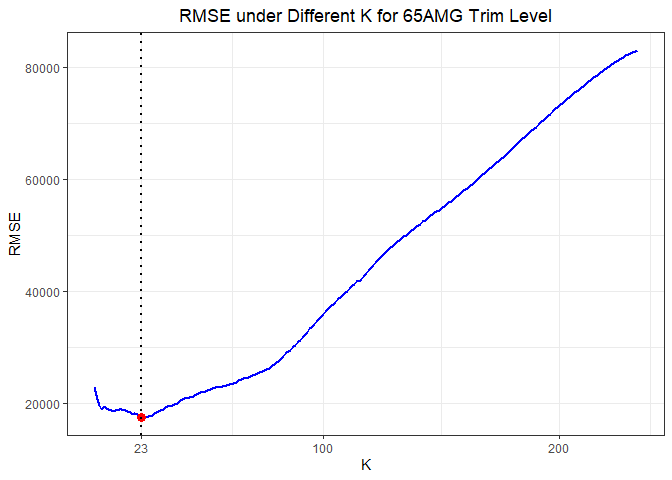
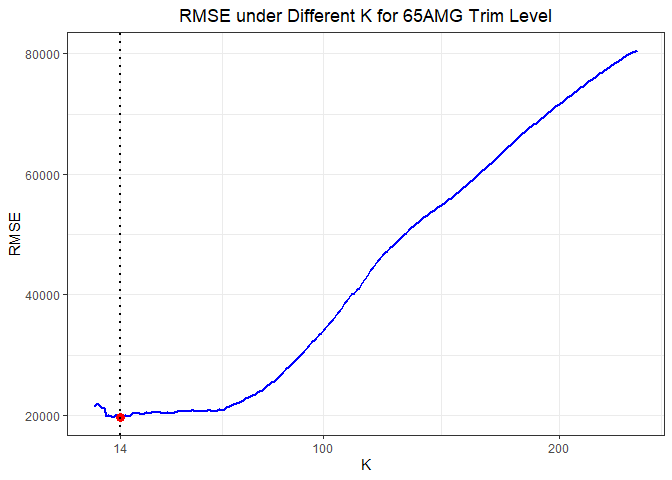
change2

diff --git a/Exercise-1.md b/Exercise-1.md
@@ -6,6 +6,16 @@ By Eliza Malinova, Zhenghao Li, and Raushan Baizakova
 
 ## 1.1 How Does the Airport Traffic Looks Like
 
+This set of plots looks at the ABIA airport traffic over the course of
+the year, days of week and time of the days. As expected, the airport
+seems to be the busiest in June and surprisingly it has the least amount
+of flights in November if we consider the Thanksgiving holidays. As
+expected, the airport was busy in weekdays and had about 25% less
+flights on Saturday that on weekdays. If we look at the time of day, the
+airport has accepted the largest amount of flights around 17 p.m. with
+almost very rare flights after midnight, whereas the flights from Austin
+flew mostly around 19 p.m. and 13 p.m..
+
 <img src="Exercise-1_files/figure-gfm/unnamed-chunk-1-1.png" style="display: block; margin: auto;" />
 
 <img src="Exercise-1_files/figure-gfm/unnamed-chunk-2-1.png" style="display: block; margin: auto;" />
@@ -19,6 +29,11 @@ departure delay on average. The darker points indicate higher mean of
 departure delay. Here, the darkest point on the map is the DSM airport
 with an average departure delay of more than 125 minutes.
 
+This figure ranks the cities in the US for the flights that occured from
+Austin. Not surprisingly, the top three destinations for Austin
+originated flights were Texas cities which were twice as frequent than
+the majority of other cities.
+
 <img src="Exercise-1_files/figure-gfm/unnamed-chunk-4-1.png" style="display: block; margin: auto;" />
 
 To construct the map, we first grouped the ABIA data by destination and
@@ -30,6 +45,18 @@ departure by airports. The common column by which the joined has
 occurred is the airports name column: “Dest”.
 
 ## 1.3 Are Monthly Average Departure Delay and Arrival Delay Different
+
+In this figure, we look at the mean of arrival and departure delays
+separately, to see which months have the highest average delays. In
+general, it is expected that departing flights have higher average delay
+time than arrivals. If we look at the months, December is a leading
+month for both the highest average arrival and departure delays,
+although we have found before that relatively it didn’t have the highest
+number of flights, which might be explained with the weather conditions
+of this month. According to the data, the best time of the year to
+minimize both the departure and arrival delays is September, which has
+about 3 minutes average departure time and very surprisingly zero
+average arrival delay time.
 
 <img src="Exercise-1_files/figure-gfm/unnamed-chunk-5-1.png" style="display: block; margin: auto;" />
 
@@ -57,6 +84,13 @@ during the weekend.
 
 ## 1.5 Which Month Has the Most Extreme Delays
 
+If we look from the perspective of extreme departure delays which is
+higher than the 90th percentile - 33 minute of departure delays,
+December and July will lead in the length of the time of delays, whereas
+March and June have the highest 12 % probability of extreme delay. That
+could be explained by our previous finding that these monthes were
+leaders in the volume of air traffic in ABIA.
+
 <img src="Exercise-1_files/figure-gfm/unnamed-chunk-7-1.png" style="display: block; margin: auto;" />
 
 <img src="Exercise-1_files/figure-gfm/unnamed-chunk-8-1.png" style="display: block; margin: auto;" />
@@ -65,15 +99,37 @@ during the weekend.
 
 <img src="Exercise-1_files/figure-gfm/unnamed-chunk-9-1.png" style="display: block; margin: auto;" />
 
+## 1.7 When and how long to expect the delays?
+
+In the following two set of plots, we look at the specific time of the
+day and length of delay separately for arrivals and departures. The
+longest and the majority of the delays happened from 12:00 p.m. to 02:00
+a.m., with less frequent departure delays after midnight, which aligns
+with our previous finding that there very rare departing flights at this
+time of the day.
+
 \#\#1.7 When and How Long to Expect the Delays
+
 <img src="Exercise-1_files/figure-gfm/unnamed-chunk-10-1.png" style="display: block; margin: auto;" />
 
 <img src="Exercise-1_files/figure-gfm/unnamed-chunk-11-1.png" style="display: block; margin: auto;" />
 
-\#\#1.8 Which Delays Happened Most Frequently
+## 1.8. What Is The Frequency of the Difference Between Departure Time and Schedule Time
+
+If we focus our attention to the varios departure delay time lengths, we
+will find that according to dataset, more than half of the departing
+flights from Austin didn’t have delays, but on the contrary departed
+earlier.
+
 <img src="Exercise-1_files/figure-gfm/unnamed-chunk-12-1.png" style="display: block; margin: auto;" />
 
 \#\#1.9 Which Month Has Most Cancellations
+
+If we look at all the cancelled flights in ABIA, we will not be
+surprised to see March as a leading month in the number of cancelled
+flights followed by April. Particularly, about 2.5% of flights in March
+were cancelled.
+
 <img src="Exercise-1_files/figure-gfm/unnamed-chunk-13-1.png" style="display: block; margin: auto;" />
 
 # K-nearest neighbors
@@ -81,15 +137,46 @@ during the weekend.
 ## 2.1 Look at Price vs Mileage For Each Trim Level
 
 <img src="Exercise-1_files/figure-gfm/unnamed-chunk-14-1.png" style="display: block; margin: auto;" /><img src="Exercise-1_files/figure-gfm/unnamed-chunk-14-2.png" style="display: block; margin: auto;" />
+At first, let us have a glimpse of the 350 trim level data and 63AMG
+trim level data. The figure 1 is the scatter plot of price and mileage
+of 350 trim level cars. In general, the data shows a negative
+relationship between price and mileage. However, those points are
+separated into two parts: the part in the northwestern area and the part
+at the bottom spreading to the right side. It implies that a line
+regression may have misspecification for our data. The figure 2 is for
+the 65AMG trim level cars. It also shows a negative relationship between
+mileage and price.
 
-## 2.1 The Optimal K Vlaue for 350 Trim Level
+## 2.2 The Optimal K Vlaue for 350 Trim Level
 
-<img src="Exercise-1_files/figure-gfm/unnamed-chunk-15-1.png" style="display: block; margin: auto;" /><img src="Exercise-1_files/figure-gfm/unnamed-chunk-15-2.png" style="display: block; margin: auto;" />
+Our general procedure is as follows: first, splitting the data into
+Train subset and Test subset. Based on the estimates of K-nearest
+neighbors in Train subset, we get our predications on the Test subset,
+and then calculate the RMSE (out-of-sample root mean-squared error).
+
+![](Exercise-1_files/figure-gfm/unnamed-chunk-15-1.png)<!-- -->![](Exercise-1_files/figure-gfm/unnamed-chunk-15-2.png)<!-- -->
 
 <img src="Exercise-1_files/figure-gfm/unnamed-chunk-16-1.png" style="display: block; margin: auto;" />
+For 350 trim level, we started from K=3 (K=2 results in an error) to
+K=332 (the number of rows in the Train subset). The optimal K is the K
+corresponding to the smallest RMSE. Since for each time when we randomly
+select a Train subset, the optimal K varies. To be rigorous, we
+generated 50 Train subsets, and then got an optimal K for each Train
+subset. The first figure shows one of our optimal K and how we got it by
+RMSE. The second figure shows the plot of fitted model for this K. The
+third figure shows the spread of 50 optimal K’s and its mean (after
+taking integer). Then we gave the summary of those 50 optimal K values.
 
-## 2.2 The Optimal K Vlaue for 65AMG Trim Level
+## 2.3 The Optimal K Vlaue for 65AMG Trim Level.
 
+We did the exact same to 65AMG trim level.
 <img src="Exercise-1_files/figure-gfm/unnamed-chunk-17-1.png" style="display: block; margin: auto;" /><img src="Exercise-1_files/figure-gfm/unnamed-chunk-17-2.png" style="display: block; margin: auto;" />
 
 <img src="Exercise-1_files/figure-gfm/unnamed-chunk-18-1.png" style="display: block; margin: auto;" />
+
+Comparing those two summaries of optimal K for 350 trim level and 65AMG
+trim level, the 350 trim level has higher mean, median, and variance.
+The main reason is probably that the data of 350 trim level is more
+spreading than the data of 65AMG trim level. So to fit the data, 350
+trim level need near points more far away, which requires more nearest
+points to lower the RMSE as much as possible.
